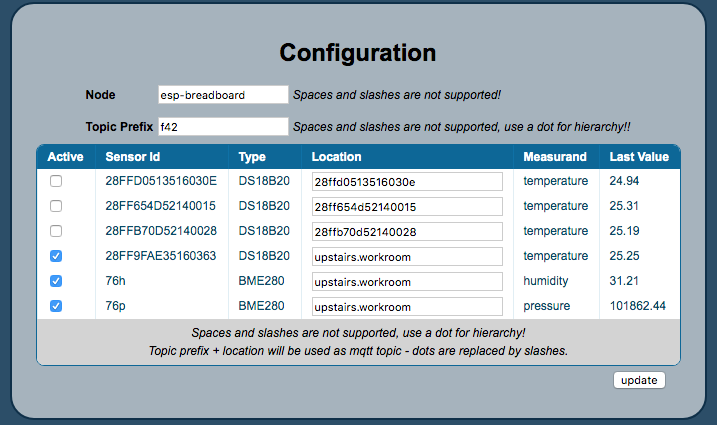
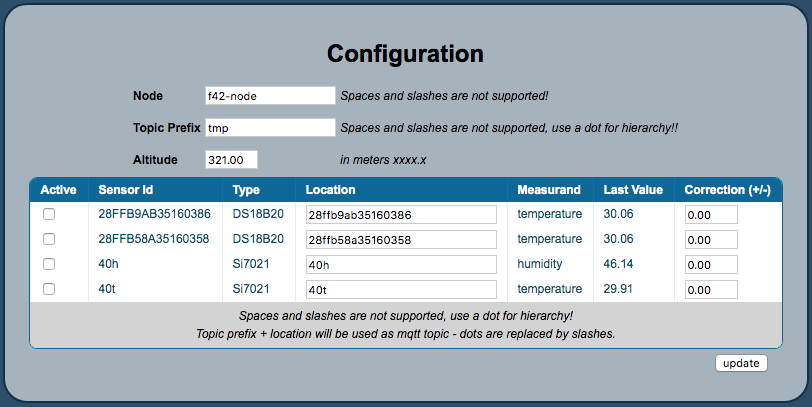
update docu

diff --git a/src/main.cpp b/src/main.cpp
@@ -64,7 +64,7 @@
 
 #define PAYLOAD_BUFFER_SIZE (1024+20+20+MAX_SENSORS*40) 
 
-#define MYDEBUG 1
+#define MYDEBUG 0
 #define debug_print(line) \
             do { if (MYDEBUG) Serial.print(line); } while (0)
 #define debug_println(line) \

diff --git a/README.md b/README.md
@@ -18,7 +18,7 @@ There are some values which are only configureable on compile time (in `main.cpp
 
 - DEFAULT_NODE_NAME (= F42-NODE) - used as WiFi SSID
 - MQTT_SERVER (= mqtt.thomo.de) - the MQTT server, you will have to use your own :wink:
-- ALTITUDE (= 282.0F) - your local altitude in meters, used to adjust the pressure measurement
+- ~~ALTITUDE (= 282.0F) - your local altitude in meters, used to adjust the pressure measurement~~ (configurable in the config dialog)
 - DEFAULT_ROOT_TOPIC (= "tmp") - the standard root topic
 - FETCH_SENSORS_CYCLE_SEC (= 10) - fetch the sensor values every 10 seconds
 - MAX_SENSORS (= 10) - number of supported sensors
@@ -28,6 +28,19 @@ There are some values which are only configureable on compile time (in `main.cpp
 The runtime configuration is done by using a configuration web page served by the node. Just enter *http://\<the node ip\>*
 
 ![Configuration page](SensorNode_ConfigPage.png "Configuration page")
+
+The config dialog allows you to enable/disable (aka activate) the connected sensors, only active sensor values are MQTT published.
+For each sensor a location can be defined and a correction value. The correction value is add/sub from the sensor value and is used to calibrate the sensor.
+
+*Note:* The displayed sensor value and the value published at MQTT already include the correction value.
+
+## API
+
+The Sensor Node offers some URIs
+* http://\<node-ip\>/node - the node name, as JSON data
+* http://\<node-ip\>/topic - the root topic, as JSON 
+* http://\<node-ip\>/altitude - the node altitude, as JSON 
+* http://\<node-ip\>/sensors - the sensor data, as JSON 
 
 ## MQTT Topic and Payload
 
